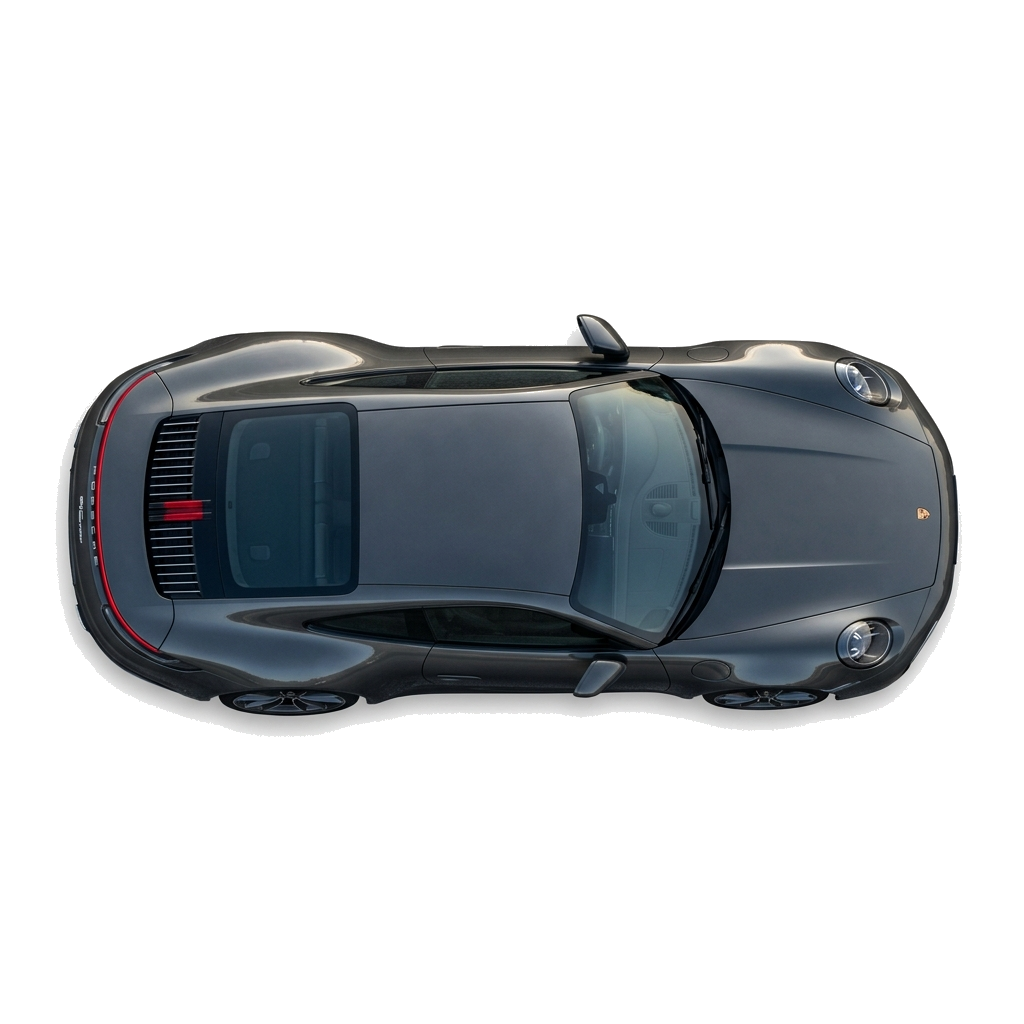
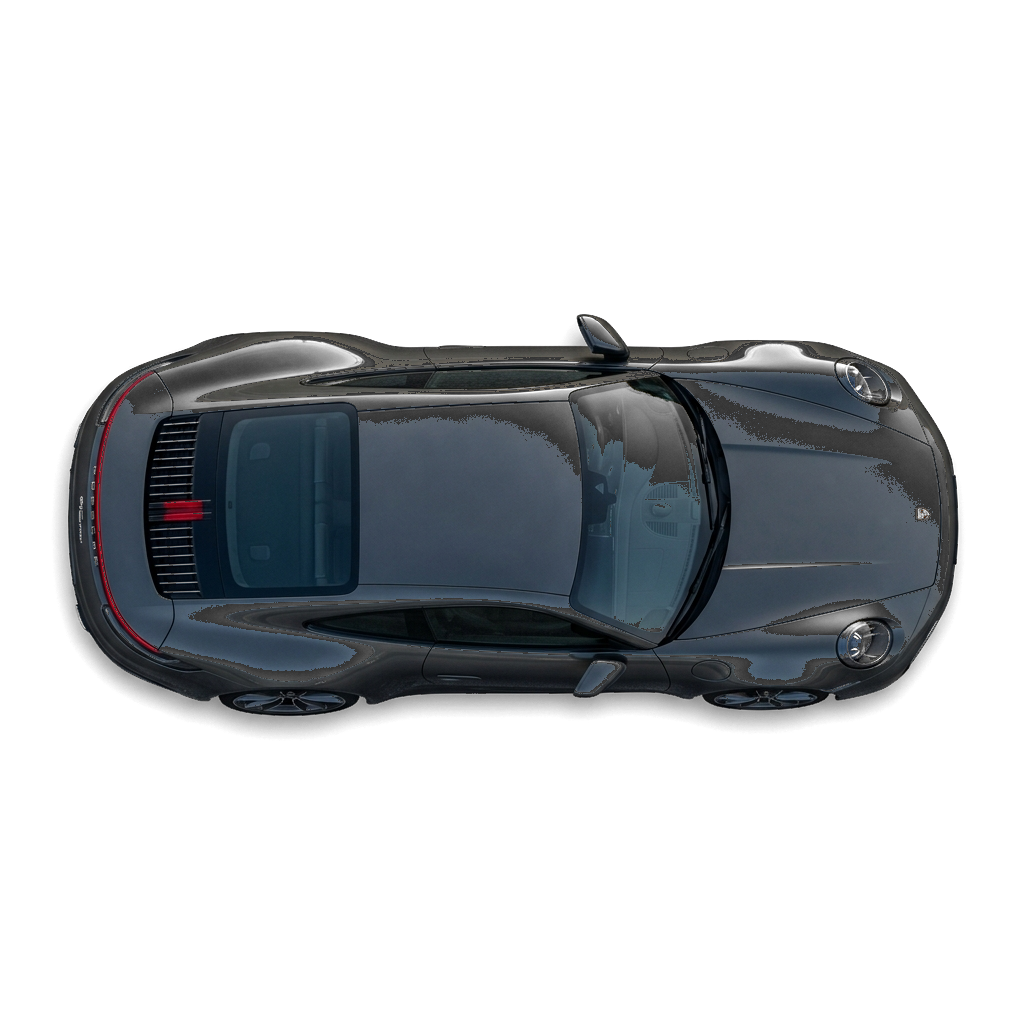
Aggressive anti-halo matting for Porsche car edges

diff --git a/process.py b/process.py
@@ -1,18 +1,23 @@
 from PIL import Image
 
-img = Image.open('public/car.png')
+img = Image.open(r"C:\Users\Yash\.gemini\antigravity\brain\3070bc31-4ab1-42e1-8a5d-22f965c69593\porsche_top_down_1775825029242.png")
 img = img.convert("RGBA")
-
 datas = img.getdata()
 newData = []
 
 for item in datas:
-    # Identify white pixels and make them transparent
-    if item[0] > 230 and item[1] > 230 and item[2] > 230:
+    r, g, b, a = item
+    avg = (r + g + b) / 3.0
+    
+    if avg > 240:
         newData.append((255, 255, 255, 0))
+    elif avg > 100:  # Much more aggressive edge detection threshold
+        new_alpha = int(255 * (240 - avg) / (240 - 100))
+        # Force the halo color to be dark grey so it acts like a shadow/edge instead of a bright halo
+        newData.append((50, 50, 50, new_alpha))
     else:
         newData.append(item)
 
 img.putdata(newData)
 img.save('public/car.png', "PNG")
-print("Successfully removed white background!")
+print("Processed image with aggressive anti-halo matting!")
